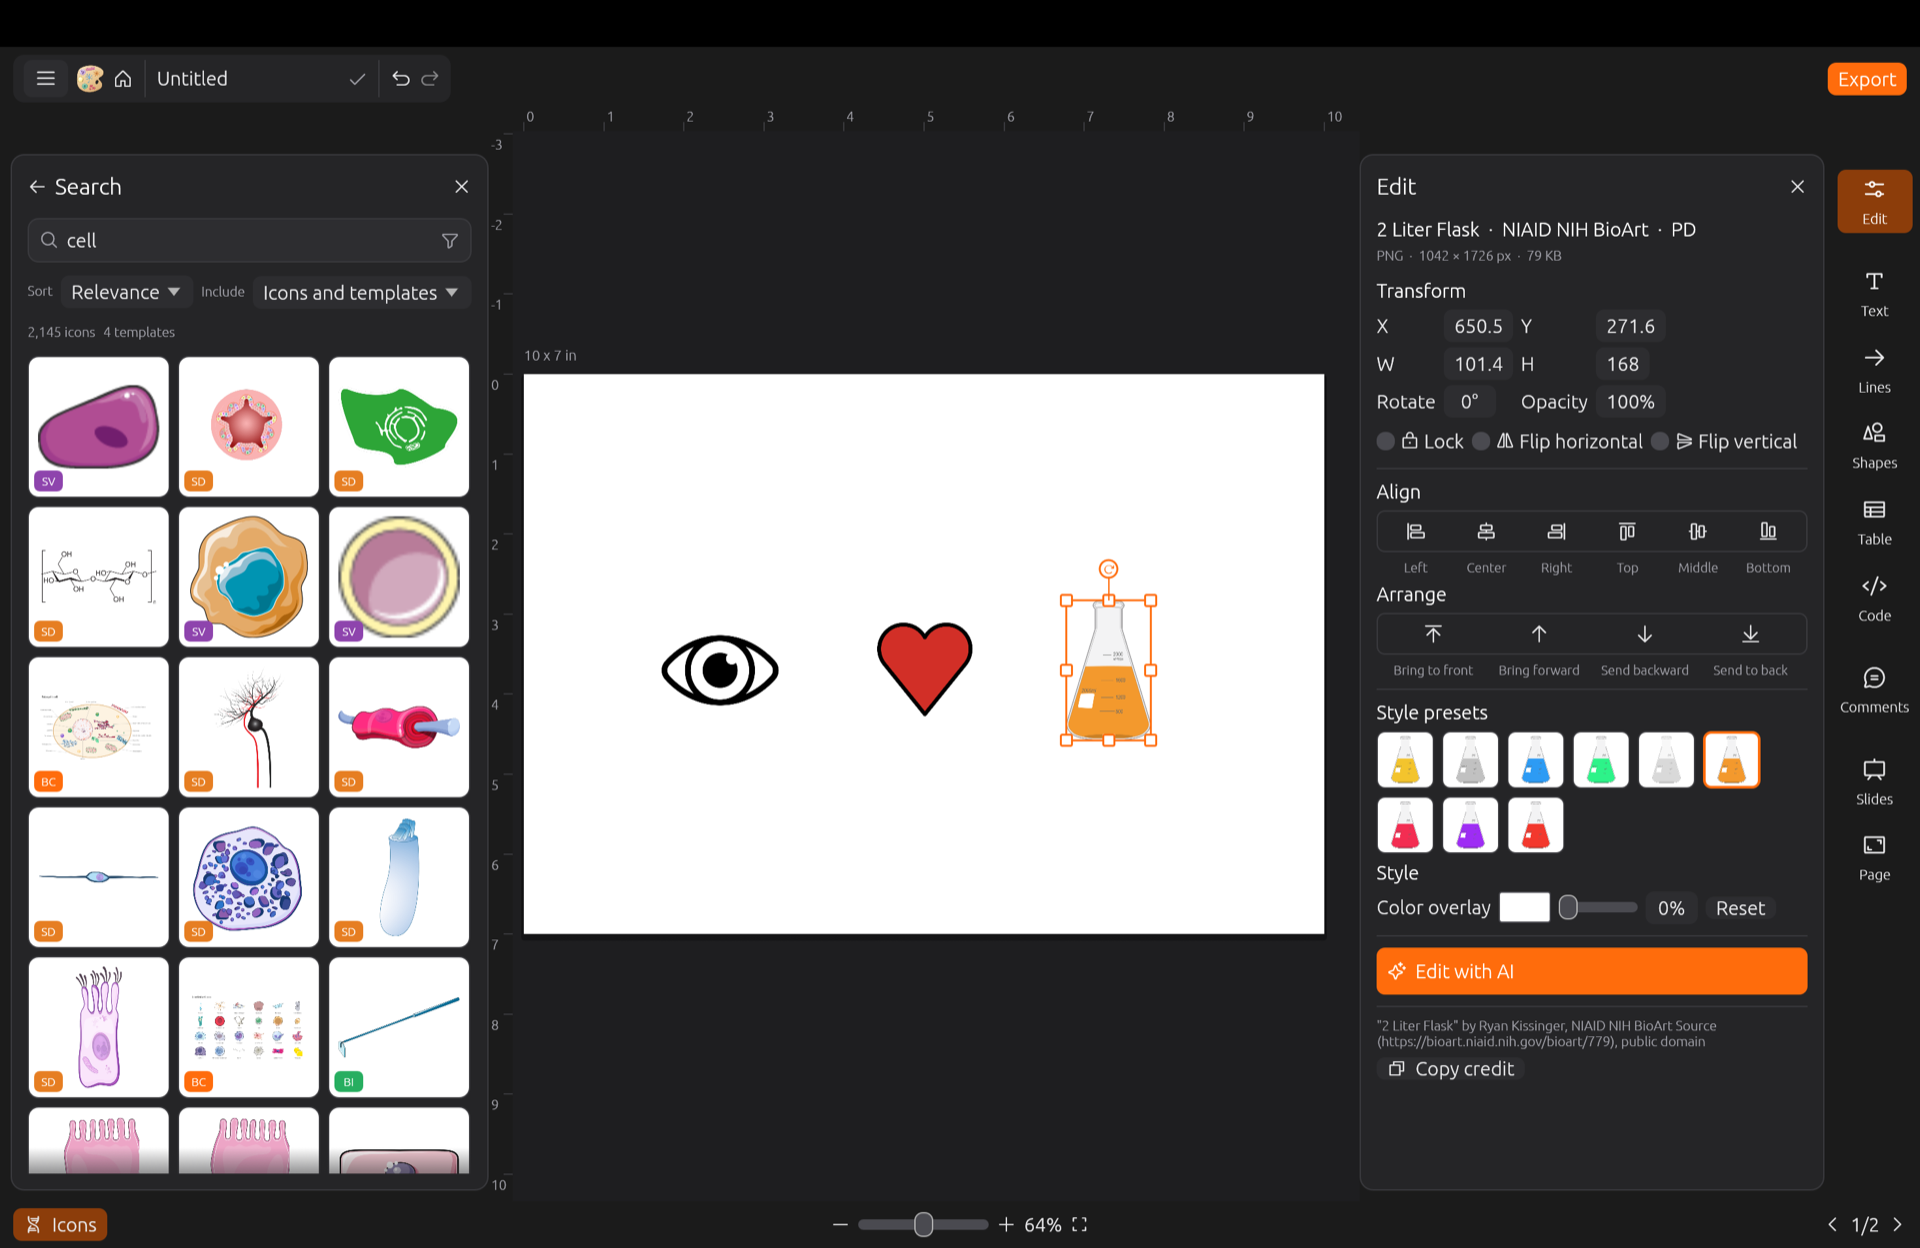
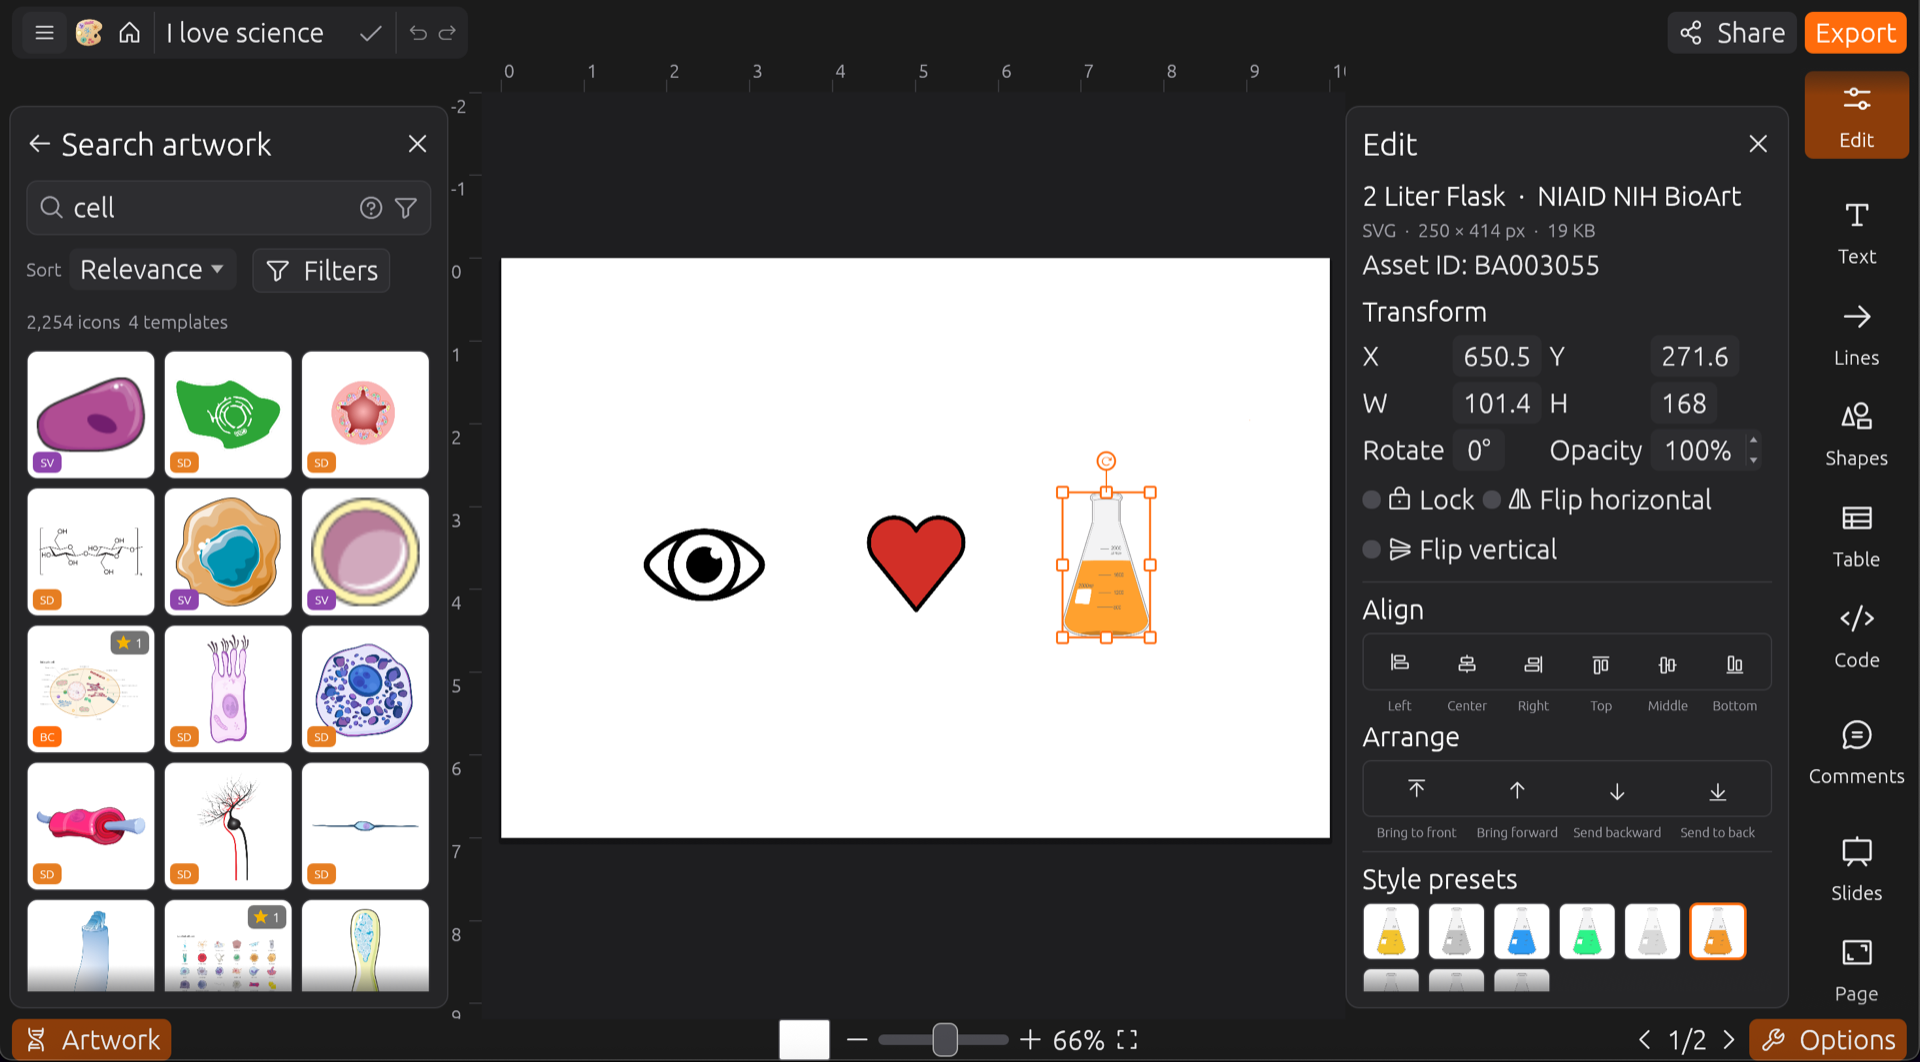
Site: resize the app screenshot for the deployed page

diff --git a/site/public/index.html b/site/public/index.html
@@ -174,7 +174,7 @@
       </div>
       <p class="lede">BioCartoon is a free and open-source tool for creating biology figures with illustrations. We compile existing open biology-focused illustration resources and introduce our own illustrations in a single database with a graphical interface for search and figure generation.</p>
 
-      <img class="shot" src="app_screenshot.png" width="1920" height="1248" alt="The BioCartoon editor: an illustration search panel and the Edit panel on either side of a figure on the canvas" />
+      <img class="shot" src="app_screenshot.png" width="1920" height="1062" alt="The BioCartoon editor: an illustration search panel and the Edit panel on either side of a figure on the canvas" />
 
 
       <div class="actions">
